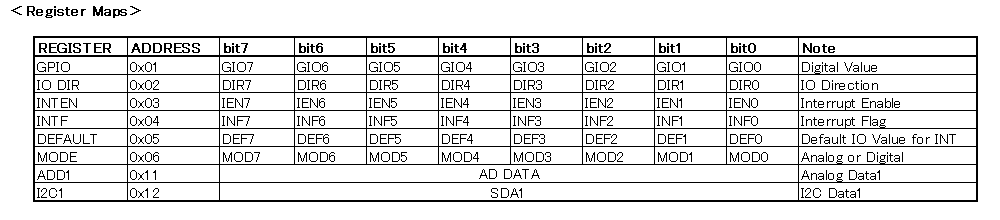
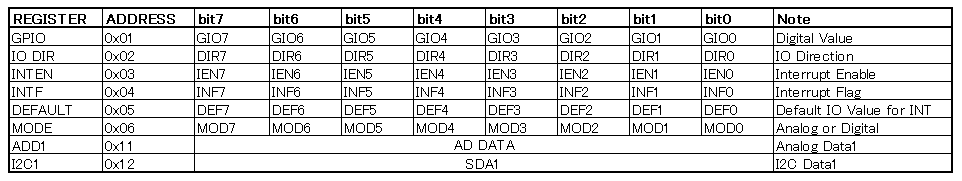
add Sequences and RegMaps to README

diff --git a/README.md b/README.md
@@ -23,3 +23,14 @@ IO Expander Device Arduino Firmware with uart
 
 ## Usage 
  - Use arduino-ioexpander-lib (Arduino Library. see [arduino-ioexpander-lib](https://github.com/bigw00d/arduino-ioexpander-lib))
+
+## Sequences 
+<img width="80%" src="./img/TransferSequence.png" />  
+
+ * DATA is 8bit  
+ * First DATA is Register Address  
+ * ADR1:0x1D(7bit), ADR2:0x1E(7bit), W=0b0, R=0b1  
+ * ACK:0x06, NACK:0x15  
+
+## Register Maps 
+<img width="80%" src="./img/RegisterMaps.png" />  
